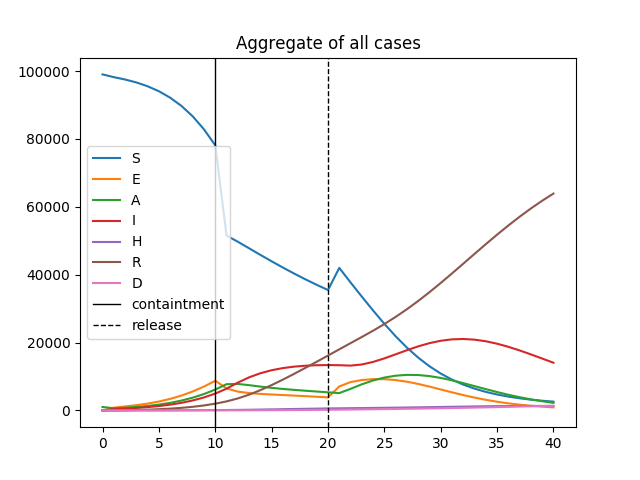
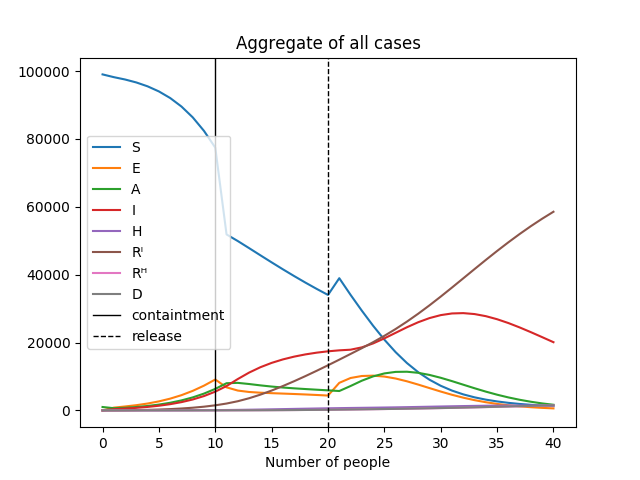
Cambié el modelo: separé recuperados en recuperados por hospital y recuperados ambulatorios. Se agrega un compartimento en las ecuaciones.

diff --git a/arenas_model.py b/arenas_model.py
@@ -20,18 +20,19 @@ def markov_step(x, M):
     `M`: list of non-zero elements of the transition matrix M
     '''
     # state variables
-    S,E,A,I,H,R,D = x
+    S,E,A,I,H,Rᴵ,Rᴴ,D = x
     # interaction terms
-    M_SS, M_ES, M_EE, M_AE, M_AA, M_IA, M_II, M_HI, M_HH, M_RI, M_RH, M_RR, M_DH, M_DD = M
+    M_SS, M_ES, M_EE, M_AE, M_AA, M_IA, M_II, M_HI, M_HH, M_RᴵI, M_RᴵRᴵ, M_RᴴH, M_RᴴRᴴ, M_DH, M_DD = M
 
     return np.array([
-        M_SS * S,
-        M_ES * S + M_EE * E,
-        M_AE * E + M_AA * A,
-        M_IA * A + M_II * I,
-        M_HI * I + M_HH * H,
-        M_RI * I + M_RH * H + M_RR * R,
-        M_DH * H + M_DD * D
+        M_SS * S,                 # S
+        M_ES * S + M_EE * E,      # E
+        M_AE * E + M_AA * A,      # A
+        M_IA * A + M_II * I,      # I
+        M_HI * I + M_HH * H,      # H
+        M_RᴵI * I + M_RᴵRᴵ * Rᴵ,  # Rᴵ
+        M_RᴴH * H + M_RᴴRᴴ * Rᴴ,  # Rᴴ
+        M_DH * H + M_DD * D       # D
     ])
 
 def iterate_model(x0, T, params):
@@ -58,36 +59,38 @@ def iterate_model(x0, T, params):
     γ = params[6]
     ω = params[7]
     ψ = params[8]
-    χ = params[9]
-    n = params[10] # population
+    χᴵ = params[9]
+    χᴴ = params[10]
+    n = params[11] # population
     # containtment params
-    σ  = params[11]
-    κ0 = params[12]
-    ϕ  = params[13]
-    tc = params[14]
-    tf = params[15]
+    σ  = params[12]
+    κ0 = params[13]
+    ϕ  = params[14]
+    tc = params[15]
+    tf = params[16]
 
     # Compute transmission probability
     Π_t = Π_1D( x0[2]+ ν*x0[3], β, k)
 
     # Compute interaction terms
-    M_SS = 1 - Π_t
-    M_ES = Π_t
-    M_EE = 1 - η
-    M_AE = η
-    M_AA = 1 - α
-    M_IA = α
-    M_II = 1 - μ
-    M_HI = μ * γ
-    M_HH = ω * (1 - ψ) + (1 - ω)*(1 - χ)
-    M_RI = μ * (1 - γ)
-    M_RH = (1 - ω) * χ
-    M_RR = 1
-    M_DH = ω * ψ
-    M_DD = 1
+    M_SS   = 1 - Π_t
+    M_ES   = Π_t
+    M_EE   = 1 - η
+    M_AE   = η
+    M_AA   = 1 - α
+    M_IA   = α
+    M_II   = γ * (1 - μ) + (1 - γ) * (1 - χᴵ)
+    M_HI   = γ * μ
+    M_HH   = ω * (1 - ψ) + (1 - ω) * (1 - χᴴ)
+    M_RᴵI  = (1 - γ) * χᴵ
+    M_RᴵRᴵ = 1
+    M_RᴴH  = (1 - ω) * χᴴ
+    M_RᴴRᴴ = 1
+    M_DH   = ω * ψ
+    M_DD   = 1
 
     ## Non-zero interactions for transition-like matrix
-    M = [M_SS, M_ES, M_EE, M_AE, M_AA, M_IA, M_II, M_HI, M_HH, M_RI, M_RH, M_RR, M_DH, M_DD]
+    M = [M_SS, M_ES, M_EE, M_AE, M_AA, M_IA, M_II, M_HI, M_HH, M_RᴵI, M_RᴵRᴵ, M_RᴴH, M_RᴴRᴴ, M_DH, M_DD]
 
     ## PREALLOCATION
     flow = np.zeros( [T+1, *x0.shape] )

diff --git a/test.py b/test.py
@@ -7,8 +7,8 @@ from arenas_model import *
 
 
 def main():
-    # Set number of compartiments (S,E,A,I,H,R,D -> 7)
-    NC = 7
+    # Set number of compartiments (S,E,A,I,H,Rᴵ,Rᴴ,D -> 8)
+    NC = 8
 
     ##--SET ARTIFICIAL POPULATIONS, AREAS, AND MOBILITIES--##
 
@@ -17,10 +17,10 @@ def main():
 
     ##--SET MODEL PARAMETERS--##
 
-    # Arenas parameters
+    # Arenas parameters (χ is repeated for the new model with one more compartiment)
     import arenas_params as ap
     params = [
-        ap.β, ap.kg, ap.η, ap.αg, ap.ν, ap.μg, ap.γg, ap.ωg, ap.ψg, ap.χg, N, ap.σ, ap.κ0, ap.ϕ, ap.tc, ap.tf
+        ap.β, ap.kg, ap.η, ap.αg, ap.ν, ap.μg, ap.γg, ap.ωg, ap.ψg, ap.χg, ap.χg, N, ap.σ, ap.κ0, ap.ϕ, ap.tc, ap.tf
     ]
 
     ## Containtment parameters
@@ -54,20 +54,22 @@ def main():
 
     # Plot the aggregate dynamics
 
-    S =  [flow[t][0] for t in range(flow.shape[0])]
-    E =  [flow[t][1] for t in range(flow.shape[0])]
-    A =  [flow[t][2] for t in range(flow.shape[0])]
-    I =  [flow[t][3] for t in range(flow.shape[0])]
-    H =  [flow[t][4] for t in range(flow.shape[0])]
-    R =  [flow[t][5] for t in range(flow.shape[0])]
-    D =  [flow[t][6] for t in range(flow.shape[0])]
+    S  =  [flow[t][0] for t in range(flow.shape[0])]
+    E  =  [flow[t][1] for t in range(flow.shape[0])]
+    A  =  [flow[t][2] for t in range(flow.shape[0])]
+    I  =  [flow[t][3] for t in range(flow.shape[0])]
+    H  =  [flow[t][4] for t in range(flow.shape[0])]
+    Rᴵ =  [flow[t][5] for t in range(flow.shape[0])]
+    Rᴴ =  [flow[t][6] for t in range(flow.shape[0])]
+    D  =  [flow[t][7] for t in range(flow.shape[0])]
 
     plt.plot(S, label='S')
     plt.plot(E, label='E')
     plt.plot(A, label='A')
     plt.plot(I, label='I')
     plt.plot(H, label='H')
-    plt.plot(R, label='R')
+    plt.plot(Rᴵ, label='Rᴵ')
+    plt.plot(Rᴴ, label='Rᴴ')
     plt.plot(D, label='D')
 
     # containment dates
@@ -75,6 +77,8 @@ def main():
     plt.axvline([tc+tf], label='release', c='black', lw=1, ls='--')
 
     plt.title('Aggregate of all cases')
+    plt.xlabel('Days since t0')
+    plt.xlabel('Number of people')
     plt.legend()
     plt.show()
 
